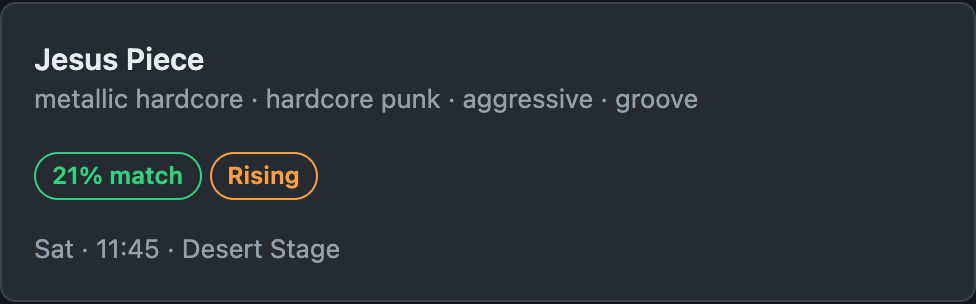
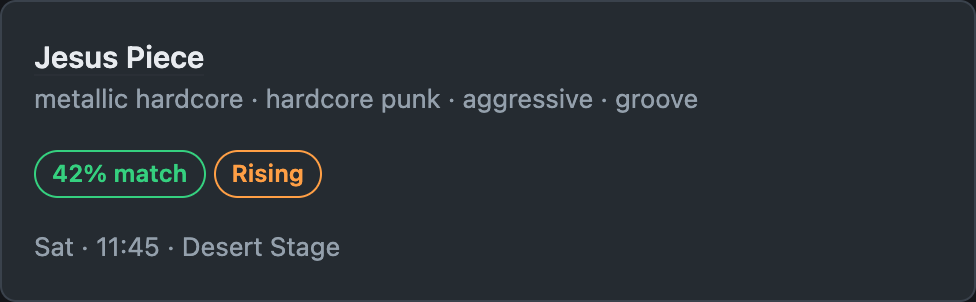
Keep both kinds of taste profile, not just the clusters
The enhancement made a weakness in the recommender visible: both artists the
rising measure flagged on the demonstration bill scored near the bottom of
it. Jesus Piece shares four tags with Knocked Loose, an artist the user chose,
and scored 21.7%, because three clusters built from a dozen artists cannot
isolate a corner of a taste held by only two of them.

Each saved artist is now a profile in its own right alongside the cluster
centroids, and every artist keeps its best score across all of them. Four
options were measured first:

                        Jesus Piece  Currents  Sevendust  median
  clustered                   21.7%     33.0%      68.0%    6.4%
  per saved artist            42.6%     77.4%      58.6%   10.8%
  both, best kept             42.6%     77.4%      68.0%   10.8%
  the average of the two      32.2%     55.2%      63.3%    9.0%

Keeping both wins because the two fail in opposite directions: a centroid
holds a theme no single artist represents, which is Sevendust, and a single
artist holds a corner too small to cluster, which is Jesus Piece. Taking the
best can only raise a score, so nothing already matched got worse.

The reason this was not done sooner was that clustering supposedly protects
against one odd saved artist dominating. It does not. Adding a deliberately
unrepresentative pick moved the nearest unsaved artist +5.4 points under
clustering and +5.4 under the per-artist profiles it was meant to guard
[…]

diff --git a/analytics/app/recommender.py b/analytics/app/recommender.py
@@ -14,10 +14,12 @@ Pipeline:
   1. Build a sparse artist x tag matrix, where each cell holds the tag's
      weight (Last.fm counts carry real signal; MusicBrainz genres are 1.0).
   2. Apply TF-IDF so rare tags dominate and the rows are unit length.
-  3. Cluster the saved artists into one to three taste profiles. A single
-     average fails anyone with range: four doom picks and four thrash picks
-     average into a point that is neither, so the artists that should score
-     highest score middling instead. Clustering keeps the sides separate.
+  3. Build one to three cluster centroids from the saved artists, and take
+     each saved artist as a profile in its own right. A single average fails
+     anyone with range: four doom picks and four thrash picks average into a
+     point that is neither. Clustering fixes most of that and not all of it —
+     a corner of a taste held by only two artists never gets its own cluster —
+     so the individual artists are kept alongside the centroids.
   4. Score every artist against each profile and keep its best score. An
      artist has to match one side of someone's taste well, not all of it.
 
@@ -60,10 +62,16 @@ def build_matrix(rows: Sequence[Tuple[int, str, float]]):
 
 def profile_count(saved: int) -> int:
     """
-    How many taste profiles to build for someone with this many saved artists.
+    How many cluster centroids to build for someone with this many saved artists.
 
-    Capped deliberately: with enough clusters every pick becomes its own
-    profile, and then one odd choice scores a whole genre highly.
+    The cap was meant to stop one odd pick scoring a whole genre highly. It
+    does not: k-means gives an outlier a cluster of its own, and the maximum
+    over clusters then picks it up exactly as a single-artist profile would.
+    Measured on the demo profile, adding one unrepresentative saved artist
+    moved the nearest unsaved artist by +5.4 points under clustering and +5.4
+    under the per-artist profiles it was supposed to protect against. The cap
+    stays because fewer, broader centroids are still the right shape for the
+    themes in a taste; it is simply not a defence.
     """
     if saved <= 3:
         return 1
@@ -73,7 +81,21 @@ def profile_count(saved: int) -> int:
 
 
 def _profiles(tfidf, saved_rows: List[int], clustered: bool):
-    """Unit-length taste profiles: one centroid per cluster of saved artists."""
+    """
+    Unit-length taste profiles: a centroid per cluster, plus each saved artist.
+
+    Two ideas of what a profile is, kept together because they fail in
+    opposite directions. A centroid captures a theme that no single saved
+    artist represents — it is what keeps Sevendust at 68% rather than 59%. A
+    single artist captures a corner of a taste too small to form a cluster:
+    three clusters built from a dozen artists cannot isolate a hardcore side
+    represented by two of them, which is why Jesus Piece scored 22% against
+    the centroids and 43% against Knocked Loose alone.
+
+    Each artist keeps its best score across all of them, so adding the
+    per-artist profiles can only raise a score, never lower one. Nothing the
+    clustered version already matched gets worse.
+    """
     dense = tfidf[saved_rows].toarray()
     k = profile_count(len(saved_rows)) if clustered else 1
     k = min(k, len(saved_rows))
@@ -83,6 +105,9 @@ def _profiles(tfidf, saved_rows: List[int], clustered: bool):
     else:
         labels = KMeans(n_clusters=k, n_init=10, random_state=42).fit_predict(dense)
         centroids = [dense[labels == c].mean(axis=0) for c in range(k) if (labels == c).any()]
+
+    if clustered:
+        centroids = list(centroids) + [dense[i] for i in range(len(saved_rows))]
 
     out = []
     for v in centroids:
